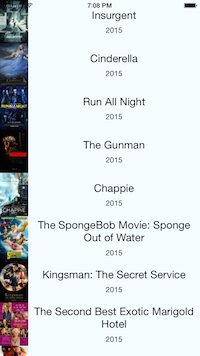
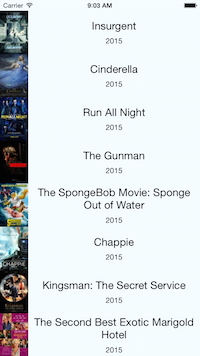
update website

diff --git a/docs/pushnotificationios.html b/docs/pushnotificationios.html
@@ -1,6 +1,14 @@
-<!DOCTYPE html><html><head><meta charset="utf-8"><meta http-equiv="X-UA-Compatible" content="IE=edge,chrome=1"><title>React Native | A framework for building native apps using React</title><meta name="viewport" content="width=device-width"><meta property="og:title" content="React Native | A framework for building native apps using React"><meta property="og:type" content="website"><meta property="og:url" content="http://facebook.github.io/react-native/index.html"><meta property="og:image" content="http://facebook.github.io/react-native/img/opengraph.png?2"><meta property="og:description" content="A framework for building native apps using React"><link rel="shortcut icon" href="/react-native/img/favicon.png?2"><link rel="stylesheet" href="/react-native/css/react-native.css"><script type="text/javascript" src="//use.typekit.net/vqa1hcx.js"></script><script type="text/javascript">try{Typekit.load();}catch(e){}</script></head><body><div class="container"><div class="nav-main"><div class="wrap"><a class="nav-home" href="/react-native/"><img src="/react-native/img/header_logo.png">React Native</a><ul class="nav-site"><li><a href="/react-native/docs/getting-started.html#content" class="active">docs</a></li><li><a href="/react-native/support.html" class="">support</a></li><li><a href="http://facebook.github.io/react" class="">react</a></li><li><a href="http://github.com/facebook/react-native" class="">github</a></li></ul></div></div><section class="content wrap documentationContent"><div class="nav-docs"><div class="nav-docs-section"><h3>Quick Start</h3><ul><li><a style="margin-left:0;" class="" href="/react-native/docs/getting-started.html#content">Getting Started</a></li><li><a style="margin-left:0;" class="" href="/react-native/docs/tutorial.html#content">Tutorial</a></li><li><a style="margin-left:0;" class="" href="/react-native/docs/videos.html#content">Videos</a></li></ul></div><div class="nav-docs-section"><h3>Guides</h3><ul><li><a style="margin-left:0;" class="" href="/react-native/docs/style.html#content">Style</a></li><li><a style="margin-left:0;" class="" href="/react-native/docs/gesture-responder-system.html#content">Gesture Responder System</a></li><li><a style="margin-left:0;" class="" href="/react-native/docs/nativemodulesios.html#content">Native Modules (iOS)</a></li><li><a style="margin-left:0;" class="" href="/react-native/docs/testing.html#content">Testing</a></li></ul></div><div class="nav-docs-section"><h3>components</h3><ul><li><a style="margin-left:0;" class="" href="/react-native/docs/activityindicatorios.html#content">ActivityIndicatorIOS</a></li><li><a style="margin-left:0;" class="" href="/react-native/docs/datepickerios.html#content">DatePickerIOS</a></li><li><a style="margin-left:0;" class="" href="/react-native/docs/image.html#content">Image</a></li><li><a style="margin-left:0;" class="" href="/react-native/docs/listview.html#content">ListView</a></li><li><a style="margin-left:0;" class="" href="/react-native/docs/mapview.html#content">MapView</a></li><li><a style="margin-left:0;" class="" href="/react-native/docs/navigator.html#content">Navigator</a></li><li><a style="margin-left:0;" class="" href="/react-native/docs/navigatorios.html#content">NavigatorIOS</a></li><li><a style="margin-left:0;" class="" href="/react-native/docs/pickerios.html#content">PickerIOS</a></li><li><a style="margin-left:0;" class="" href="/react-native/docs/scrollview.html#content">ScrollView</a></li><li><a style="margin-left:0;" class="" href="/react-native/docs/sliderios.html#content">SliderIOS</a></li><li><a style="margin-left:0;" class="" href="/react-native/docs/switchios.html#content">SwitchIOS</a></li><li><a style="margin-left:0;" class="" href="/react-native/docs/tabbarios.html#content">TabBarIOS</a></li><li><a style="margin-left:0;" class="" href="/react-native/docs/text.html#content">Text</a></li><li><a style="margin-left:0;" class="" href="/react-native/docs/textinput.html#content">TextInput</a></li><li><a style="margin-left:0;" class="" href="/react-native/docs/touchablehighlight.html#content">TouchableHighlight</a></li><li><a style="margin-left:0;" class="" href="/react-native/docs/touchableopacity.html#content">TouchableOpacity</a></li><li><a style="margin-left:0;" class="" href="/react-native/docs/touchablewithoutfeedback.html#content">TouchableWithoutFeedback</a></li><li><a style="margin-left:0;" class="" href="/react-native/docs/view.html#content">View</a></li><li><a style="margin-left:0;" class="" href="/react-native/docs/webview.html#content">WebView</a></li></ul></div><div class="nav-docs-section"><h3>apis</h3><ul><li><a style="margin-left:0;" class="" href="/react-native/docs/alertios.html#content">AlertIOS</a></li><li><a style="margin-left:0;" class="" href="/react-native/docs/animation.html#content">Animation</a></li><li><a style="margin-left:0;" class="" href="/react-native/docs/appregistry.html#content">AppRegistry</a></li><li><a style="margin-left:0;" class="" href="/react-native/docs/appstateios.html#content">AppStateIOS</a></li><li><a style="margin-left:0;" class="" href="/react-native/docs/asyncstorage.html#content">AsyncStorage</a></li><li><a style="margin-left:0;" class="" href="/react-native/docs/cameraroll.html#content">CameraRoll</a></li><li><a style="margin-left:0;" class="" href="/react-native/docs/interactionmanager.html#content">InteractionManager</a></li><li><a style="margin-left:0;" class="" href="/react-native/docs/layoutanimation.html#content">LayoutAnimation</a></li><li><a style="margin-left:0;" class="" href="/react-native/docs/netinfo.html#content">NetInfo</a></li><li><a style="margin-left:0;" class="" href="/react-native/docs/panresponder.html#content">PanResponder</a></li><li><a style="margin-left:0;" class="" href="/react-native/docs/pixelratio.html#content">PixelRatio</a></li><li><a style="margin-left:0;" class="active" href="/react-native/docs/pushnotificationios.html#content">PushNotificationIOS</a></li><li><a style="margin-left:0;" class="" href="/react-native/docs/statusbarios.html#content">StatusBarIOS</a></li><li><a style="margin-left:0;" class="" href="/react-native/docs/stylesheet.html#content">StyleSheet</a></li><li><a style="margin-left:0;" class="" href="/react-native/docs/vibrationios.html#content">VibrationIOS</a></li></ul></div><div class="nav-docs-section"><h3>Polyfills</h3><ul><li><a style="margin-left:0;" class="" href="/react-native/docs/flexbox.html#content">Flexbox</a></li><li><a style="margin-left:0;" class="" href="/react-native/docs/geolocation.html#content">Geolocation</a></li><li><a style="margin-left:0;" class="" href="/react-native/docs/network.html#content">Network</a></li><li><a style="margin-left:0;" class="" href="/react-native/docs/timers.html#content">Timers</a></li></ul></div></div><div class="inner-content"><a id="content"></a><h1>PushNotificationIOS</h1><div><div><p>All rights reserved.</p><p>This source code is licensed under the BSD-style license found in the
-LICENSE file in the root directory of this source tree. An additional grant
-of patent rights can be found in the PATENTS file in the same directory.</p><p>@flow</p></div><span><h3><a class="anchor" name="methods"></a>Methods <a class="hash-link" href="#methods">#</a></h3><div class="props"><div class="prop"><h4 class="propTitle"><a class="anchor" name="setapplicationiconbadgenumber"></a><span class="propType">static </span>setApplicationIconBadgeNumber<span class="propType">(number)</span> <a class="hash-link" href="#setapplicationiconbadgenumber">#</a></h4></div><div class="prop"><h4 class="propTitle"><a class="anchor" name="getapplicationiconbadgenumber"></a><span class="propType">static </span>getApplicationIconBadgeNumber<span class="propType">(callback)</span> <a class="hash-link" href="#getapplicationiconbadgenumber">#</a></h4></div><div class="prop"><h4 class="propTitle"><a class="anchor" name="addeventlistener"></a><span class="propType">static </span>addEventListener<span class="propType">(type, handler)</span> <a class="hash-link" href="#addeventlistener">#</a></h4></div><div class="prop"><h4 class="propTitle"><a class="anchor" name="requestpermissions"></a><span class="propType">static </span>requestPermissions<span class="propType">()</span> <a class="hash-link" href="#requestpermissions">#</a></h4></div><div class="prop"><h4 class="propTitle"><a class="anchor" name="checkpermissions"></a><span class="propType">static </span>checkPermissions<span class="propType">(callback)</span> <a class="hash-link" href="#checkpermissions">#</a></h4></div><div class="prop"><h4 class="propTitle"><a class="anchor" name="removeeventlistener"></a><span class="propType">static </span>removeEventListener<span class="propType">(type, handler)</span> <a class="hash-link" href="#removeeventlistener">#</a></h4></div><div class="prop"><h4 class="propTitle"><a class="anchor" name="popinitialnotification"></a><span class="propType">static </span>popInitialNotification<span class="propType">()</span> <a class="hash-link" href="#popinitialnotification">#</a></h4></div><div class="prop"><h4 class="propTitle"><a class="anchor" name="constructor"></a>constructor<span class="propType">(nativeNotif)</span> <a class="hash-link" href="#constructor">#</a></h4></div><div class="prop"><h4 class="propTitle"><a class="anchor" name="getmessage"></a>getMessage<span class="propType">()</span> <a class="hash-link" href="#getmessage">#</a></h4></div><div class="prop"><h4 class="propTitle"><a class="anchor" name="getsound"></a>getSound<span class="propType">()</span> <a class="hash-link" href="#getsound">#</a></h4></div><div class="prop"><h4 class="propTitle"><a class="anchor" name="getalert"></a>getAlert<span class="propType">()</span> <a class="hash-link" href="#getalert">#</a></h4></div><div class="prop"><h4 class="propTitle"><a class="anchor" name="getbadgecount"></a>getBadgeCount<span class="propType">()</span> <a class="hash-link" href="#getbadgecount">#</a></h4></div><div class="prop"><h4 class="propTitle"><a class="anchor" name="getdata"></a>getData<span class="propType">()</span> <a class="hash-link" href="#getdata">#</a></h4></div></div></span></div><noscript></noscript><div class="docs-prevnext"><a class="docs-next" href="statusbarios.html#content">Next →</a></div></div></section><footer class="wrap"><div class="right">© 2015 Facebook Inc.</div></footer></div><div id="fb-root"></div><script>
+<!DOCTYPE html><html><head><meta charset="utf-8"><meta http-equiv="X-UA-Compatible" content="IE=edge,chrome=1"><title>React Native | A framework for building native apps using React</title><meta name="viewport" content="width=device-width"><meta property="og:title" content="React Native | A framework for building native apps using React"><meta property="og:type" content="website"><meta property="og:url" content="http://facebook.github.io/react-native/index.html"><meta property="og:image" content="http://facebook.github.io/react-native/img/opengraph.png?2"><meta property="og:description" content="A framework for building native apps using React"><link rel="shortcut icon" href="/react-native/img/favicon.png?2"><link rel="stylesheet" href="/react-native/css/react-native.css"><script type="text/javascript" src="//use.typekit.net/vqa1hcx.js"></script><script type="text/javascript">try{Typekit.load();}catch(e){}</script></head><body><div class="container"><div class="nav-main"><div class="wrap"><a class="nav-home" href="/react-native/"><img src="/react-native/img/header_logo.png">React Native</a><ul class="nav-site"><li><a href="/react-native/docs/getting-started.html#content" class="active">docs</a></li><li><a href="/react-native/support.html" class="">support</a></li><li><a href="http://facebook.github.io/react" class="">react</a></li><li><a href="http://github.com/facebook/react-native" class="">github</a></li></ul></div></div><section class="content wrap documentationContent"><div class="nav-docs"><div class="nav-docs-section"><h3>Quick Start</h3><ul><li><a style="margin-left:0;" class="" href="/react-native/docs/getting-started.html#content">Getting Started</a></li><li><a style="margin-left:0;" class="" href="/react-native/docs/tutorial.html#content">Tutorial</a></li><li><a style="margin-left:0;" class="" href="/react-native/docs/videos.html#content">Videos</a></li></ul></div><div class="nav-docs-section"><h3>Guides</h3><ul><li><a style="margin-left:0;" class="" href="/react-native/docs/style.html#content">Style</a></li><li><a style="margin-left:0;" class="" href="/react-native/docs/gesture-responder-system.html#content">Gesture Responder System</a></li><li><a style="margin-left:0;" class="" href="/react-native/docs/nativemodulesios.html#content">Native Modules (iOS)</a></li><li><a style="margin-left:0;" class="" href="/react-native/docs/testing.html#content">Testing</a></li></ul></div><div class="nav-docs-section"><h3>components</h3><ul><li><a style="margin-left:0;" class="" href="/react-native/docs/activityindicatorios.html#content">ActivityIndicatorIOS</a></li><li><a style="margin-left:0;" class="" href="/react-native/docs/datepickerios.html#content">DatePickerIOS</a></li><li><a style="margin-left:0;" class="" href="/react-native/docs/image.html#content">Image</a></li><li><a style="margin-left:0;" class="" href="/react-native/docs/listview.html#content">ListView</a></li><li><a style="margin-left:0;" class="" href="/react-native/docs/mapview.html#content">MapView</a></li><li><a style="margin-left:0;" class="" href="/react-native/docs/navigator.html#content">Navigator</a></li><li><a style="margin-left:0;" class="" href="/react-native/docs/navigatorios.html#content">NavigatorIOS</a></li><li><a style="margin-left:0;" class="" href="/react-native/docs/pickerios.html#content">PickerIOS</a></li><li><a style="margin-left:0;" class="" href="/react-native/docs/scrollview.html#content">ScrollView</a></li><li><a style="margin-left:0;" class="" href="/react-native/docs/sliderios.html#content">SliderIOS</a></li><li><a style="margin-left:0;" class="" href="/react-native/docs/switchios.html#content">SwitchIOS</a></li><li><a style="margin-left:0;" class="" href="/react-native/docs/tabbarios.html#content">TabBarIOS</a></li><li><a style="margin-left:0;" class="" href="/react-native/docs/text.html#content">Text</a></li><li><a style="margin-left:0;" class="" href="/react-native/docs/textinput.html#content">TextInput</a></li><li><a style="margin-left:0;" class="" href="/react-native/docs/touchablehighlight.html#content">TouchableHighlight</a></li><li><a style="margin-left:0;" class="" href="/react-native/docs/touchableopacity.html#content">TouchableOpacity</a></li><li><a style="margin-left:0;" class="" href="/react-native/docs/touchablewithoutfeedback.html#content">TouchableWithoutFeedback</a></li><li><a style="margin-left:0;" class="" href="/react-native/docs/view.html#content">View</a></li><li><a style="margin-left:0;" class="" href="/react-native/docs/webview.html#content">WebView</a></li></ul></div><div class="nav-docs-section"><h3>apis</h3><ul><li><a style="margin-left:0;" class="" href="/react-native/docs/alertios.html#content">AlertIOS</a></li><li><a style="margin-left:0;" class="" href="/react-native/docs/animation.html#content">Animation</a></li><li><a style="margin-left:0;" class="" href="/react-native/docs/appregistry.html#content">AppRegistry</a></li><li><a style="margin-left:0;" class="" href="/react-native/docs/appstateios.html#content">AppStateIOS</a></li><li><a style="margin-left:0;" class="" href="/react-native/docs/asyncstorage.html#content">AsyncStorage</a></li><li><a style="margin-left:0;" class="" href="/react-native/docs/cameraroll.html#content">CameraRoll</a></li><li><a style="margin-left:0;" class="" href="/react-native/docs/interactionmanager.html#content">InteractionManager</a></li><li><a style="margin-left:0;" class="" href="/react-native/docs/layoutanimation.html#content">LayoutAnimation</a></li><li><a style="margin-left:0;" class="" href="/react-native/docs/netinfo.html#content">NetInfo</a></li><li><a style="margin-left:0;" class="" href="/react-native/docs/panresponder.html#content">PanResponder</a></li><li><a style="margin-left:0;" class="" href="/react-native/docs/pixelratio.html#content">PixelRatio</a></li><li><a style="margin-left:0;" class="active" href="/react-native/docs/pushnotificationios.html#content">PushNotificationIOS</a></li><li><a style="margin-left:0;" class="" href="/react-native/docs/statusbarios.html#content">StatusBarIOS</a></li><li><a style="margin-left:0;" class="" href="/react-native/docs/stylesheet.html#content">StyleSheet</a></li><li><a style="margin-left:0;" class="" href="/react-native/docs/vibrationios.html#content">VibrationIOS</a></li></ul></div><div class="nav-docs-section"><h3>Polyfills</h3><ul><li><a style="margin-left:0;" class="" href="/react-native/docs/flexbox.html#content">Flexbox</a></li><li><a style="margin-left:0;" class="" href="/react-native/docs/geolocation.html#content">Geolocation</a></li><li><a style="margin-left:0;" class="" href="/react-native/docs/network.html#content">Network</a></li><li><a style="margin-left:0;" class="" href="/react-native/docs/timers.html#content">Timers</a></li></ul></div></div><div class="inner-content"><a id="content"></a><h1>PushNotificationIOS</h1><div><div><p>Handle push notifications for your app, including permission handling and
+icon badge number.</p><p>To get up and running, <a href="https://developer.apple.com/library/ios/documentation/IDEs/Conceptual/AppDistributionGuide/ConfiguringPushNotifications/ConfiguringPushNotifications.html" target="_blank">configure your notifications with Apple</a>
+and your server-side system. To get an idea, <a href="https://parse.com/tutorials/ios-push-notifications" target="_blank">this is the Parse guide</a>.</p></div><span><h3><a class="anchor" name="methods"></a>Methods <a class="hash-link" href="#methods">#</a></h3><div class="props"><div class="prop"><h4 class="propTitle"><a class="anchor" name="setapplicationiconbadgenumber"></a><span class="propType">static </span>setApplicationIconBadgeNumber<span class="propType">(number: number)</span> <a class="hash-link" href="#setapplicationiconbadgenumber">#</a></h4><div><p>Sets the badge number for the app icon on the home screen</p></div></div><div class="prop"><h4 class="propTitle"><a class="anchor" name="getapplicationiconbadgenumber"></a><span class="propType">static </span>getApplicationIconBadgeNumber<span class="propType">(callback: Function)</span> <a class="hash-link" href="#getapplicationiconbadgenumber">#</a></h4><div><p>Gets the current badge number for the app icon on the home screen</p></div></div><div class="prop"><h4 class="propTitle"><a class="anchor" name="addeventlistener"></a><span class="propType">static </span>addEventListener<span class="propType">(type: string, handler: Function)</span> <a class="hash-link" href="#addeventlistener">#</a></h4><div><p>Attaches a listener to remote notifications while the app is running in the
+foreground or the background.</p><p>The handler will get be invoked with an instance of <code>PushNotificationIOS</code></p></div></div><div class="prop"><h4 class="propTitle"><a class="anchor" name="requestpermissions"></a><span class="propType">static </span>requestPermissions<span class="propType">()</span> <a class="hash-link" href="#requestpermissions">#</a></h4><div><p>Requests all notification permissions from iOS, prompting the user&#x27;s
+dialog box.</p></div></div><div class="prop"><h4 class="propTitle"><a class="anchor" name="checkpermissions"></a><span class="propType">static </span>checkPermissions<span class="propType">(callback: Function)</span> <a class="hash-link" href="#checkpermissions">#</a></h4><div><p>See what push permissions are currently enabled. <code>callback</code> will be
+invoked with a <code>permissions</code> object:</p><ul><li><code>alert</code> :boolean</li><li><code>badge</code> :boolean</li><li><code>sound</code> :boolean</li></ul></div></div><div class="prop"><h4 class="propTitle"><a class="anchor" name="removeeventlistener"></a><span class="propType">static </span>removeEventListener<span class="propType">(type: string, handler: Function)</span> <a class="hash-link" href="#removeeventlistener">#</a></h4><div><p>Removes the event listener. Do this in <code>componentWillUnmount</code> to prevent
+memory leaks</p></div></div><div class="prop"><h4 class="propTitle"><a class="anchor" name="popinitialnotification"></a><span class="propType">static </span>popInitialNotification<span class="propType">()</span> <a class="hash-link" href="#popinitialnotification">#</a></h4><div><p>An initial notification will be available if the app was cold-launched
+from a notification.</p><p>The first caller of <code>popInitialNotification</code> will get the initial
+notification object, or <code>null</code>. Subsequent invocations will return null.</p></div></div><div class="prop"><h4 class="propTitle"><a class="anchor" name="constructor"></a>constructor<span class="propType">(nativeNotif)</span> <a class="hash-link" href="#constructor">#</a></h4><div><p>You will never need to instansiate <code>PushNotificationIOS</code> yourself.
+Listening to the <code>notification</code> event and invoking
+<code>popInitialNotification</code> is sufficient</p></div></div><div class="prop"><h4 class="propTitle"><a class="anchor" name="getmessage"></a>getMessage<span class="propType">()</span> <a class="hash-link" href="#getmessage">#</a></h4><div><p>An alias for <code>getAlert</code> to get the notification&#x27;s main message string</p></div></div><div class="prop"><h4 class="propTitle"><a class="anchor" name="getsound"></a>getSound<span class="propType">()</span> <a class="hash-link" href="#getsound">#</a></h4><div><p>Gets the sound string from the <code>aps</code> object</p></div></div><div class="prop"><h4 class="propTitle"><a class="anchor" name="getalert"></a>getAlert<span class="propType">()</span> <a class="hash-link" href="#getalert">#</a></h4><div><p>Gets the notification&#x27;s main message from the <code>aps</code> object</p></div></div><div class="prop"><h4 class="propTitle"><a class="anchor" name="getbadgecount"></a>getBadgeCount<span class="propType">()</span> <a class="hash-link" href="#getbadgecount">#</a></h4><div><p>Gets the badge count number from the <code>aps</code> object</p></div></div><div class="prop"><h4 class="propTitle"><a class="anchor" name="getdata"></a>getData<span class="propType">()</span> <a class="hash-link" href="#getdata">#</a></h4><div><p>Gets the data object on the notif</p></div></div></div></span></div><noscript></noscript><div class="docs-prevnext"><a class="docs-next" href="statusbarios.html#content">Next →</a></div></div></section><footer class="wrap"><div class="right">© 2015 Facebook Inc.</div></footer></div><div id="fb-root"></div><script>
             (function(i,s,o,g,r,a,m){i['GoogleAnalyticsObject']=r;i[r]=i[r]||function(){
             (i[r].q=i[r].q||[]).push(arguments)},i[r].l=1*new Date();a=s.createElement(o),
             m=s.getElementsByTagName(o)[0];a.async=1;a.src=g;m.parentNode.insertBefore(a,m)

diff --git a/docs/tutorial.html b/docs/tutorial.html
@@ -21,8 +21,7 @@ We&#x27;re going to render the title, year, and thumbnail for the movie. Since t
     flex<span class="token punctuation">:</span> <span class="token number">1</span><span class="token punctuation">,</span>
     justifyContent<span class="token punctuation">:</span> <span class="token string">&#x27;center&#x27;</span><span class="token punctuation">,</span>
     alignItems<span class="token punctuation">:</span> <span class="token string">&#x27;center&#x27;</span><span class="token punctuation">,</span>
-    backgroundColor<span class="token punctuation">:</span> <span class="token string">&#x27;white&#x27;</span><span class="token punctuation">,</span>
-    paddingTop<span class="token punctuation">:</span> <span class="token number">20</span><span class="token punctuation">,</span>
+    backgroundColor<span class="token punctuation">:</span> <span class="token string">&#x27;#F5FCFF&#x27;</span><span class="token punctuation">,</span>
   <span class="token punctuation">}</span><span class="token punctuation">,</span>
   thumbnail<span class="token punctuation">:</span> <span class="token punctuation">{</span>
     width<span class="token punctuation">:</span> <span class="token number">53</span><span class="token punctuation">,</span>
@@ -58,8 +57,7 @@ We&#x27;re going to render the title, year, and thumbnail for the movie. Since t
     flexDirection<span class="token punctuation">:</span> <span class="token string">&#x27;row&#x27;</span><span class="token punctuation">,</span>
     justifyContent<span class="token punctuation">:</span> <span class="token string">&#x27;center&#x27;</span><span class="token punctuation">,</span>
     alignItems<span class="token punctuation">:</span> <span class="token string">&#x27;center&#x27;</span><span class="token punctuation">,</span>
-    backgroundColor<span class="token punctuation">:</span> <span class="token string">&#x27;white&#x27;</span><span class="token punctuation">,</span>
-    paddingTop<span class="token punctuation">:</span> <span class="token number">20</span><span class="token punctuation">,</span>
+    backgroundColor<span class="token punctuation">:</span> <span class="token string">&#x27;#F5FCFF&#x27;</span><span class="token punctuation">,</span>
   <span class="token punctuation">}</span><span class="token punctuation">,</span></div><p>We use FlexBox for layout - see <a href="https://css-tricks.com/snippets/css/a-guide-to-flexbox/" target="_blank">this great guide</a> to learn more about it.</p><p>In the above code snippet, we simply added <code>flexDirection: &#x27;row&#x27;</code> that will make children of our main container to be layed out horizontally instead of vertically.</p><p>Now add another style to the JS <code>style</code> object:</p><div class="prism language-javascript">  rightContainer<span class="token punctuation">:</span> <span class="token punctuation">{</span>
     flex<span class="token punctuation">:</span> <span class="token number">1</span><span class="token punctuation">,</span>
   <span class="token punctuation">}</span><span class="token punctuation">,</span></div><p>This means that the <code>rightContainer</code> takes up the remaining space in the parent container that isn&#x27;t taken up by the Image. If this doesn&#x27;t make sense, add a <code>backgroundColor</code> to <code>rightContainer</code> and then try removing the <code>flex: 1</code>. You&#x27;ll see that this causes the container&#x27;s size to be the minimum size that fits its children.</p><p>Styling the text is pretty straightforward:</p><div class="prism language-javascript">  title<span class="token punctuation">:</span> <span class="token punctuation">{</span>
@@ -144,6 +142,7 @@ We&#x27;re going to render the title, year, and thumbnail for the movie. Since t
       &lt;ListView
         dataSource<span class="token operator">=</span><span class="token punctuation">{</span><span class="token keyword">this</span><span class="token punctuation">.</span>state<span class="token punctuation">.</span>dataSource<span class="token punctuation">}</span>
         renderRow<span class="token operator">=</span><span class="token punctuation">{</span><span class="token keyword">this</span><span class="token punctuation">.</span>renderMovie<span class="token punctuation">}</span>
+        style<span class="token operator">=</span><span class="token punctuation">{</span>styles<span class="token punctuation">.</span>listView<span class="token punctuation">}</span>
       <span class="token operator">/</span><span class="token operator">&gt;</span>
     <span class="token punctuation">)</span><span class="token punctuation">;</span>
   <span class="token punctuation">}</span><span class="token punctuation">,</span></div><p>The <code>DataSource</code> is an interfacte that <code>ListView</code> is using to determine which rows have changed over the course of updates.</p><p>You&#x27;ll notice we used <code>dataSource</code> from <code>this.state</code>. The next step is to add an empty <code>dataSource</code> to the object returned by <code>getInitialState</code>. Also, now that we&#x27;re storing the data in <code>dataSource</code>, we should not longer use <code>this.state.movies</code> to avoid storing data twice. We can use boolean property of the state (<code>this.state.loaded</code>) to tell whether data fetching has finished.</p><div class="prism language-javascript">  getInitialState<span class="token punctuation">:</span> <span class="token keyword">function</span><span class="token punctuation">(</span><span class="token punctuation">)</span> <span class="token punctuation">{</span>
@@ -163,6 +162,9 @@ We&#x27;re going to render the title, year, and thumbnail for the movie. Since t
         <span class="token punctuation">}</span><span class="token punctuation">)</span><span class="token punctuation">;</span>
       <span class="token punctuation">}</span><span class="token punctuation">)</span>
       <span class="token punctuation">.</span><span class="token function">done<span class="token punctuation">(</span></span><span class="token punctuation">)</span><span class="token punctuation">;</span>
+  <span class="token punctuation">}</span><span class="token punctuation">,</span></div><p>Finally, we add styles for the <code>ListView</code> component to the <code>styles</code> JS object:</p><div class="prism language-javascript">  listView<span class="token punctuation">:</span> <span class="token punctuation">{</span>
+    paddingTop<span class="token punctuation">:</span> <span class="token number">20</span><span class="token punctuation">,</span>
+    backgroundColor<span class="token punctuation">:</span> <span class="token string">&#x27;#F5FCFF&#x27;</span><span class="token punctuation">,</span>
   <span class="token punctuation">}</span><span class="token punctuation">,</span></div><p>And here&#x27;s the final result:</p><span><div class="tutorial-mock">
   <img src="/react-native/img/TutorialFinal.png" />
 </div>
@@ -189,7 +191,7 @@ We&#x27;re going to render the title, year, and thumbnail for the movie. Since t
 <span class="token keyword">var</span> PARAMS <span class="token operator">=</span> <span class="token string">&#x27;?apikey=&#x27;</span> <span class="token operator">+</span> API_KEY <span class="token operator">+</span> <span class="token string">&#x27;&amp;page_limit=&#x27;</span> <span class="token operator">+</span> PAGE_SIZE<span class="token punctuation">;</span>
 <span class="token keyword">var</span> REQUEST_URL <span class="token operator">=</span> API_URL <span class="token operator">+</span> PARAMS<span class="token punctuation">;</span>
 
-<span class="token keyword">var</span> SampleApp <span class="token operator">=</span> React<span class="token punctuation">.</span><span class="token function">createClass<span class="token punctuation">(</span></span><span class="token punctuation">{</span>
+<span class="token keyword">var</span> AwesomeProject <span class="token operator">=</span> React<span class="token punctuation">.</span><span class="token function">createClass<span class="token punctuation">(</span></span><span class="token punctuation">{</span>
   getInitialState<span class="token punctuation">:</span> <span class="token keyword">function</span><span class="token punctuation">(</span><span class="token punctuation">)</span> <span class="token punctuation">{</span>
     <span class="token keyword">return</span> <span class="token punctuation">{</span>
       dataSource<span class="token punctuation">:</span> <span class="token keyword">new</span> <span class="token class-name">ListView<span class="token punctuation">.</span>DataSource</span><span class="token punctuation">(</span><span class="token punctuation">{</span>
@@ -224,6 +226,7 @@ We&#x27;re going to render the title, year, and thumbnail for the movie. Since t
       &lt;ListView
         dataSource<span class="token operator">=</span><span class="token punctuation">{</span><span class="token keyword">this</span><span class="token punctuation">.</span>state<span class="token punctuation">.</span>dataSource<span class="token punctuation">}</span>
         renderRow<span class="token operator">=</span><span class="token punctuation">{</span><span class="token keyword">this</span><span class="token punctuation">.</span>renderMovie<span class="token punctuation">}</span>
+        style<span class="token operator">=</span><span class="token punctuation">{</span>styles<span class="token punctuation">.</span>listView<span class="token punctuation">}</span>
       <span class="token operator">/</span><span class="token operator">&gt;</span>
     <span class="token punctuation">)</span><span class="token punctuation">;</span>
   <span class="token punctuation">}</span><span class="token punctuation">,</span>
@@ -260,8 +263,7 @@ We&#x27;re going to render the title, year, and thumbnail for the movie. Since t
     flexDirection<span class="token punctuation">:</span> <span class="token string">&#x27;row&#x27;</span><span class="token punctuation">,</span>
     justifyContent<span class="token punctuation">:</span> <span class="token string">&#x27;center&#x27;</span><span class="token punctuation">,</span>
     alignItems<span class="token punctuation">:</span> <span class="token string">&#x27;center&#x27;</span><span class="token punctuation">,</span>
-    backgroundColor<span class="token punctuation">:</span> <span class="token string">&#x27;white&#x27;</span><span class="token punctuation">,</span>
-    paddingTop<span class="token punctuation">:</span> <span class="token number">20</span><span class="token punctuation">,</span>
+    backgroundColor<span class="token punctuation">:</span> <span class="token string">&#x27;#F5FCFF&#x27;</span><span class="token punctuation">,</span>
   <span class="token punctuation">}</span><span class="token punctuation">,</span>
   rightContainer<span class="token punctuation">:</span> <span class="token punctuation">{</span>
     flex<span class="token punctuation">:</span> <span class="token number">1</span><span class="token punctuation">,</span>
@@ -278,9 +280,13 @@ We&#x27;re going to render the title, year, and thumbnail for the movie. Since t
     width<span class="token punctuation">:</span> <span class="token number">53</span><span class="token punctuation">,</span>
     height<span class="token punctuation">:</span> <span class="token number">81</span><span class="token punctuation">,</span>
   <span class="token punctuation">}</span><span class="token punctuation">,</span>
+  listView<span class="token punctuation">:</span> <span class="token punctuation">{</span>
+    paddingTop<span class="token punctuation">:</span> <span class="token number">20</span><span class="token punctuation">,</span>
+    backgroundColor<span class="token punctuation">:</span> <span class="token string">&#x27;#F5FCFF&#x27;</span><span class="token punctuation">,</span>
+  <span class="token punctuation">}</span><span class="token punctuation">,</span>
 <span class="token punctuation">}</span><span class="token punctuation">)</span><span class="token punctuation">;</span>
 
-AppRegistry<span class="token punctuation">.</span><span class="token function">registerComponent<span class="token punctuation">(</span></span><span class="token string">&#x27;SampleApp&#x27;</span><span class="token punctuation">,</span> <span class="token punctuation">(</span><span class="token punctuation">)</span> <span class="token operator">=</span><span class="token operator">&gt;</span> SampleApp<span class="token punctuation">)</span><span class="token punctuation">;</span></div></div><div class="docs-prevnext"><a class="docs-next" href="videos.html#content">Next →</a></div></div></section><footer class="wrap"><div class="right">© 2015 Facebook Inc.</div></footer></div><div id="fb-root"></div><script>
+AppRegistry<span class="token punctuation">.</span><span class="token function">registerComponent<span class="token punctuation">(</span></span><span class="token string">&#x27;AwesomeProject&#x27;</span><span class="token punctuation">,</span> <span class="token punctuation">(</span><span class="token punctuation">)</span> <span class="token operator">=</span><span class="token operator">&gt;</span> AwesomeProject<span class="token punctuation">)</span><span class="token punctuation">;</span></div></div><div class="docs-prevnext"><a class="docs-next" href="videos.html#content">Next →</a></div></div></section><footer class="wrap"><div class="right">© 2015 Facebook Inc.</div></footer></div><div id="fb-root"></div><script>
             (function(i,s,o,g,r,a,m){i['GoogleAnalyticsObject']=r;i[r]=i[r]||function(){
             (i[r].q=i[r].q||[]).push(arguments)},i[r].l=1*new Date();a=s.createElement(o),
             m=s.getElementsByTagName(o)[0];a.async=1;a.src=g;m.parentNode.insertBefore(a,m)
